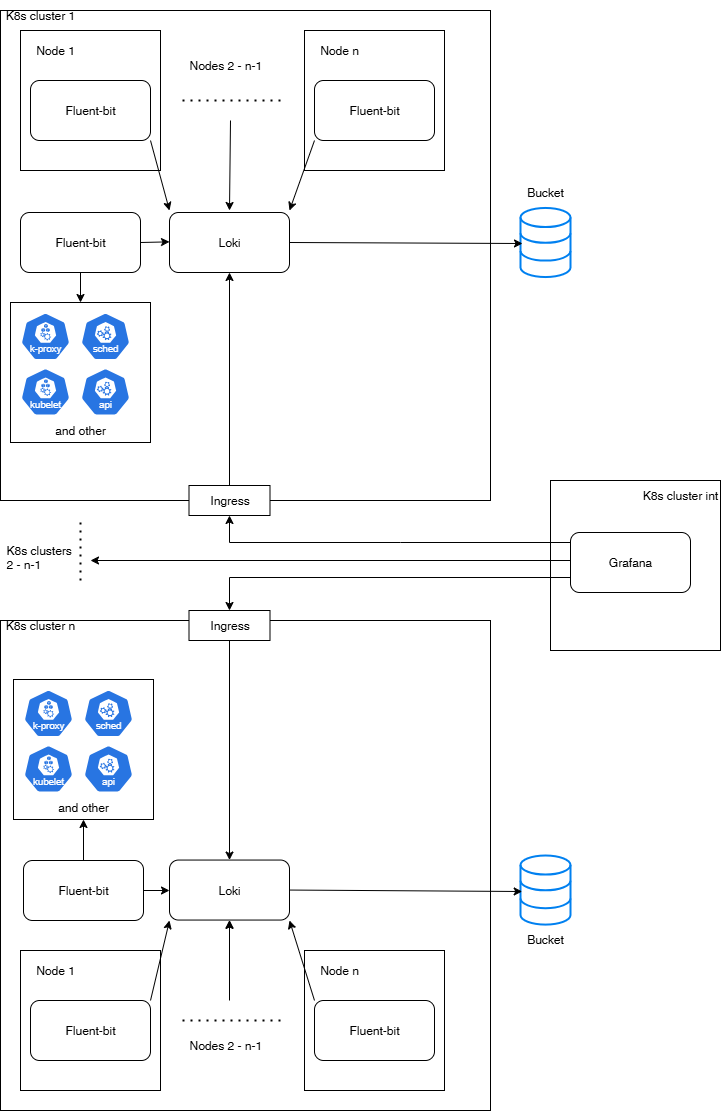
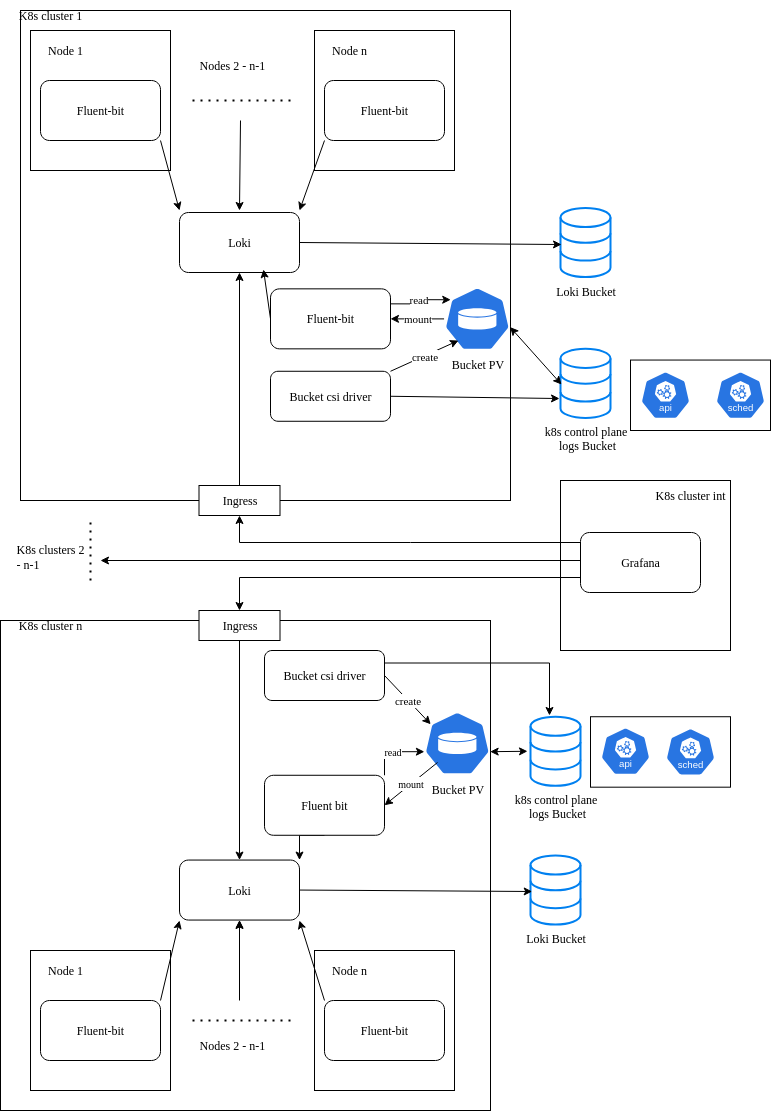
docs/logging: control plane logs architecture

diff --git a/docs/logging/README.md b/docs/logging/README.md
@@ -57,20 +57,44 @@ We use a node logging agent fluent-bit on each node (DaemonSet).
 Using `Fluent-bit` we can
 * pulling pods(containers) logs (from stdout/stderr)
 * pulling node logs
-* pulling logs from kubernetes (events, api, scheduler, kubelet, proxy, etc.)
+* getting kubernetes events
 * changing structure of logs to a common view
 * label filtering to use a common set of labels (loki indexes log labels to speed up the search, so there shouldn't be a lot of labels to reduce the load on loki):
   * env
   * node
   * namespace
+  * job
+  * app_kubernetes_io_name
+  * app_kubernetes_io_version
+  * app_kubernetes_io_component
   * app_kubernetes_io_instance
   * pod
   * container
   * stream
-  * severity
+  * level
   * company
 
 We can use fluent-bit as a sidecar in cases where it is necessary to read log files inside the container, and there is no way to send data to stdout, but the operator does not provide such an opportunity.
+
+### Getting logs of controll plane
+
+Our architecture assumes the use of a managed Kubernetes service. In such environments, accessing control plane logs can be challenging since direct access to the control plane is not available. To reliably collect these logs, we use the following approach:
+
+1. **Export logs to cloud storage**  
+   Use the provider’s internal tools to transfer control plane log records into a cloud storage bucket (most clouds offer native bucket services).  
+
+2. **Install a CSI driver**  
+   Deploy the appropriate Container Storage Interface (CSI) driver to enable Kubernetes workloads to access the bucket via PersistentVolumeClaims (PVCs) and PersistentVolumes (PVs).  
+
+3. **Mount storage in Fluent Bit pods**  
+   Configure the CSI driver to mount the bucket-backed PV into a Fluent Bit pod. This is done through FUSE (the Linux userspace filesystem framework) with a userspace tool such as *s3fs* or *gcsfuse*.  
+
+4. **Ingest logs with Fluent Bit**  
+   Fluent Bit uses its `tail` input plugin to read the log files via standard OS system calls (`read()`, `open()`, `inotify()`, etc.).  
+
+5. **Forward logs to Loki**  
+   Fluent Bit processes the incoming log records and ships them to Loki for indexing and querying.  
+
 
 
 ## Loki
